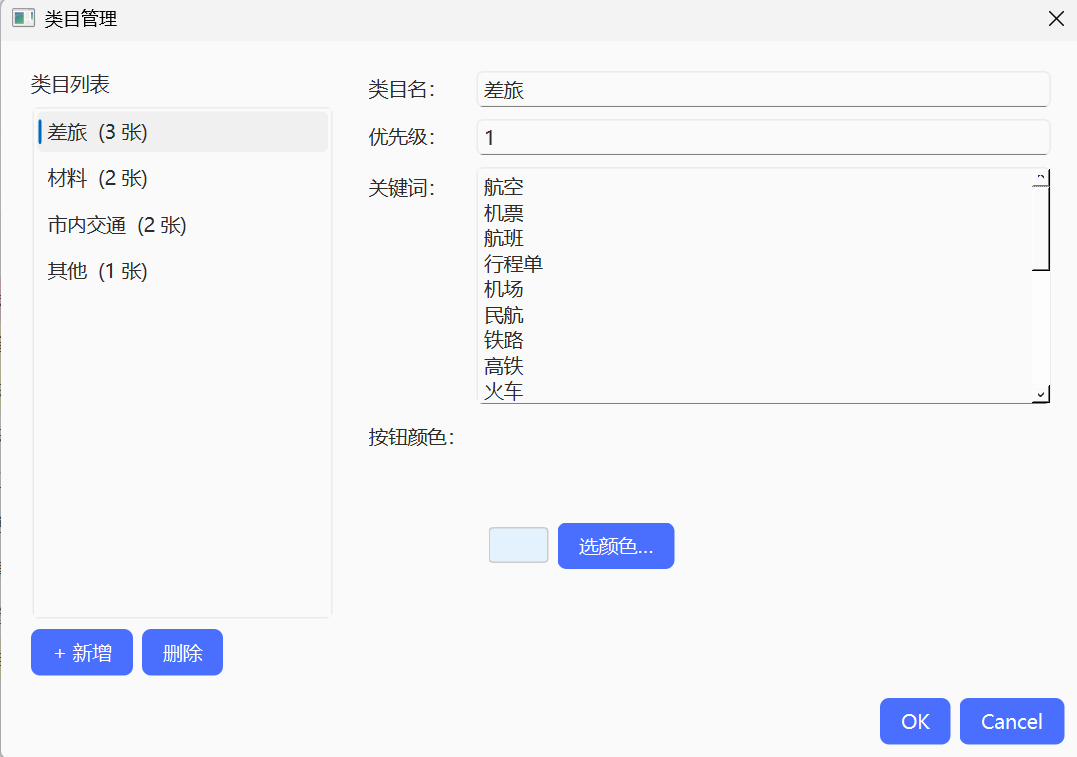
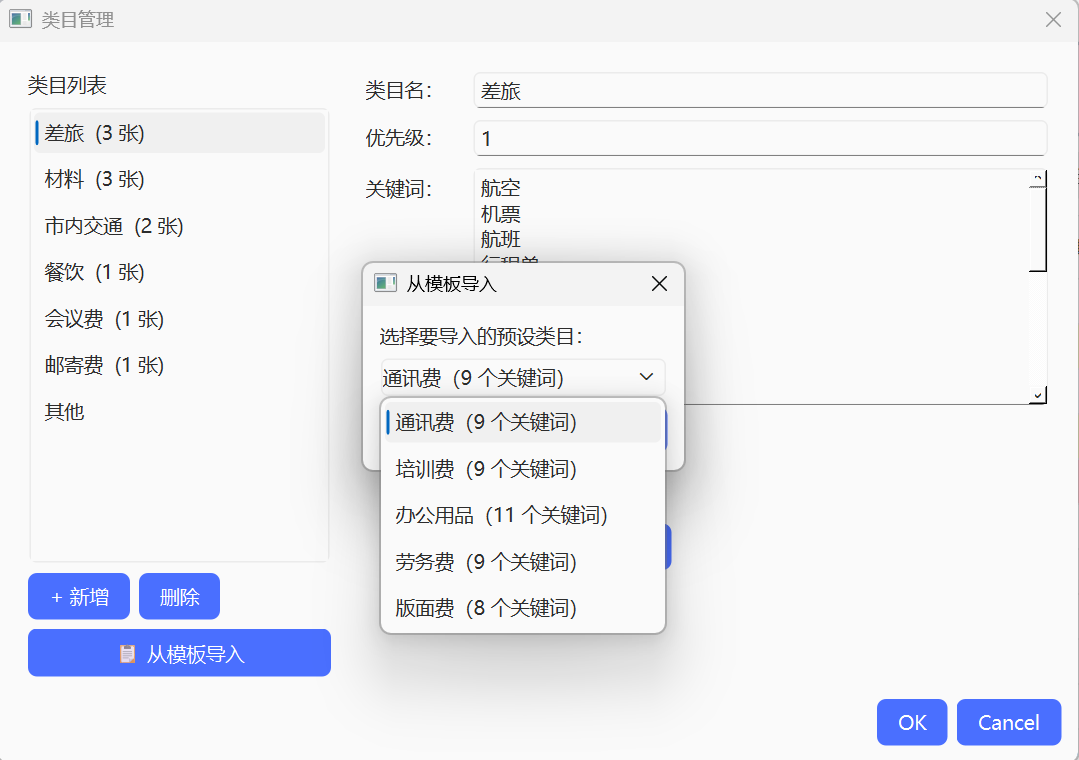
docs: 更新截图（12张发票数据）+ 新增 OCR/归档功能截图
- 主界面截图更新：12张发票，展示白/黄/绿/红4种状态行
- 类目管理截图更新：突出「📋 从模板导入」功能
- 新增 OCR/归档截图：展示 v0.3.0 两大新功能
- README 加 v0.3.0 新功能章节，OCR/归档从后续规划移除

diff --git a/README.md b/README.md
@@ -6,18 +6,15 @@
 
 ## 截图
 
-<!-- 截图说明：把图片放到 docs/images/ 目录，文件名建议见下方注释。
-     截图时建议用合成 PDF 测试（tests/test_integration.py 里有）或脱敏后的真实发票，
-     不要暴露真实姓名/发票号/身份证号等敏感信息。 -->
-
 ![主界面](docs/images/main-screenshot.png)
 
-*主界面：拖拽区 + 类目按钮 + 发票表格 + 汇总栏。黄色行表示待复核，绿色行表示用户已手动归类。*
+*主界面：拖入 12 张发票后自动分类。白色行=已分类，黄色行=待复核（市内交通），绿色行=用户手动归类，红色行=解析失败。底部汇总栏实时显示各类小计与总计。*
 
 ## 适用场景
 
 - 每学期报销时，把十几张电子发票按"市内交通/差旅/材料/其他"分类、算各类金额小计
 - 增值税电子普通发票（含携程、滴滴、京东、酒店电子票）
+- 扫描件/拍照件（v0.3.0 新增 OCR 识别）
 - 一次拖入 10-20 张批量处理
 
 ## 类目设计
@@ -68,8 +65,9 @@ python main.py
 
 ![类目管理](docs/images/category-manager.png)
 
-*左侧是类目列表（显示各类目的发票张数），右侧是当前选中类目的编辑面板——可改名称、优先级、关键词、按钮颜色。*
+*左侧类目列表（显示各类目的发票张数），右侧编辑面板（可改名称/优先级/关键词/颜色）。底部「📋 从模板导入」一键导入预设类目。*
 
+- **📋 从模板导入**：内置 8 个常见报销类目（餐饮/会议费/通讯费/培训费/邮寄费/办公用品/劳务费/版面费），每个带现成关键词，一键导入无需手动输入
 - **新增类目**：点"+ 新增"，填写类目名、关键词（每行一个）、按钮颜色、优先级
 - **改名**：直接在右侧编辑面板修改类目名（历史发票会自动跟着改）
 - **改关键词**：编辑右侧文本框，每行一个关键词
@@ -171,13 +169,32 @@ pyinstaller --onefile --windowed --name FapiaoFlow main.py
 
 生成 `dist/FapiaoFlow.exe`，可在未装 Python 的 Windows 上双击运行。
 
+## v0.3.0 新功能：OCR 识别 + PDF 归档
+
+![OCR 与归档](docs/images/archive-and-ocr.png)
+
+### 🔍 OCR 扫描件识别
+
+纸质发票拍照件、扫描 PDF 现在也能自动识别了：
+- 电子发票走 pdfplumber 快速文本提取（不变）
+- 扫描件（文字提取为空）自动触发 OCR（RapidOCR，本地离线，无需联网）
+- 「设置 → OCR 识别扫描件」可开关
+
+### 📁 PDF 归档
+
+按类目把发票复制到子文件夹，一键生成交给财务的归档包：
+- 点「📁 归档 PDF」按钮，选输出目录
+- 自动创建 `差旅/`、`材料/`、`市内交通/` 等子文件夹，把 PDF 复制进去
+- 解析失败的发票放 `未分类/`
+- 生成 `归档清单.csv`（文件名/类目/金额/发票号/状态）
+- 只复制不移动，原始 PDF 不动
+
 ## 后续规划
 
 - 更多发票类型支持（行程单、火车票明细字段）
-- 按类目自动归档 PDF 到子文件夹（方便线下贴票）
 - 跨城交通发票的城市识别（行程单/火车票有出发到达地，相对可靠）
 - 设置对话框：UI 上切换 backend 模式（rule/hybrid/llm）
-- OCR 支持（扫描件）
+- 在线 OCR API（百度/腾讯发票识别，更高精度可选增强）
 
 ## 贡献
 
